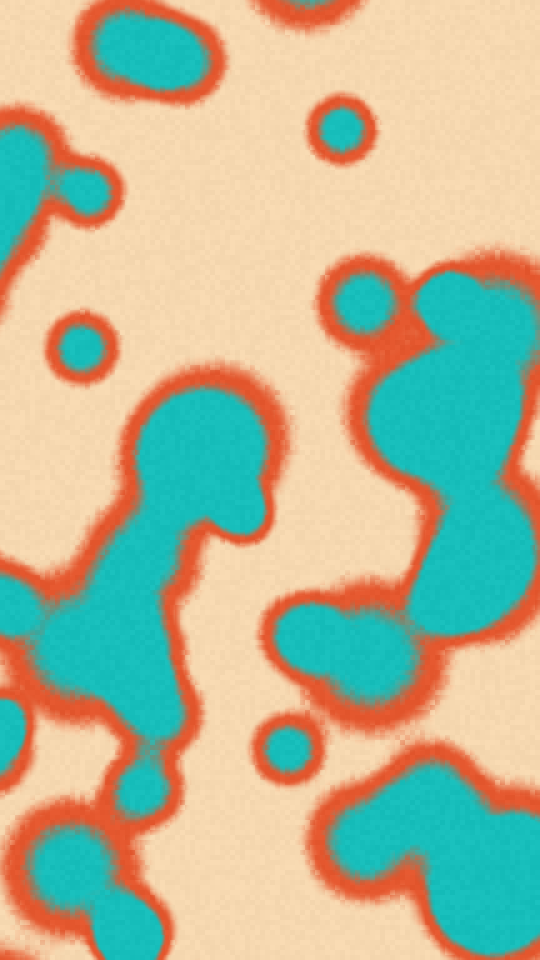
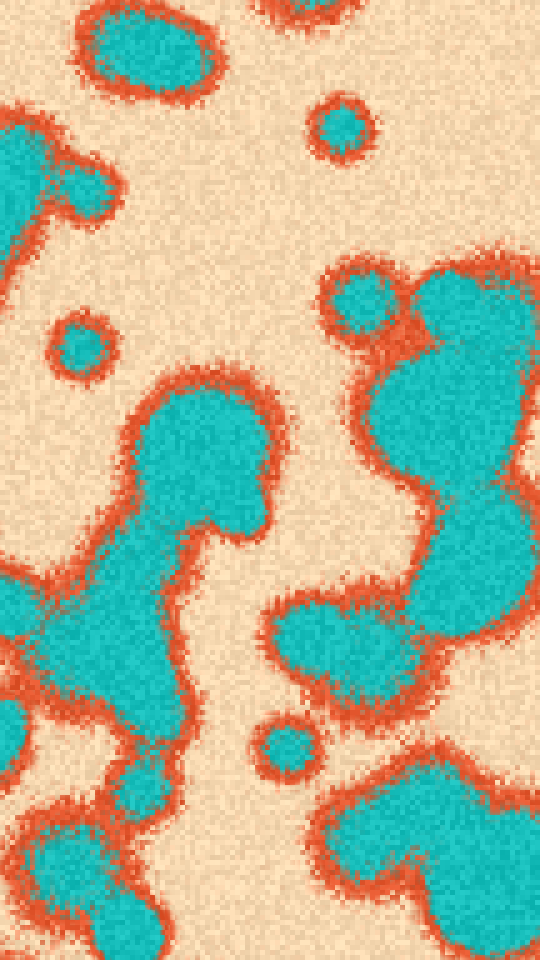
fix: keep the own grain of mist, sear and culture at site defaults
taste-triage.md now treats a Tool's own grain slider as grain, not art,
so a Seed no longer deals it. mist keeps 0.4, sear 0.1 and culture
0.62. Goldens, Reference exports and docs Stills follow.

diff --git a/tests/sear.rs b/tests/sear.rs
@@ -18,15 +18,15 @@ fn derive_gives_golden_recipes() {
     let golden = [
         (
             1,
-            r##"{"tirage":0,"tool":"sear","tool_seed":9611518,"palette":["#03071e","#370617","#9d0208","#e85d04","#faa307","#ffe066"],"params":{"scale":0.26,"warp":0.76,"detail":1,"smear":0.36,"drag":0.85,"tear":0.15,"steps":12,"grain":0.41,"ditherTog":false,"dthKinds":"Bayer 8","dthSize":2,"dthLevels":3,"dthAmount":1.0,"grainTog":false,"grnBlends":"Add","grnAmount":0.55,"grnSize":1.0,"grnSpecks":0.5,"grnVignette":0.5}}"##,
+            r##"{"tirage":0,"tool":"sear","tool_seed":9611518,"palette":["#03071e","#370617","#9d0208","#e85d04","#faa307","#ffe066"],"params":{"scale":0.26,"warp":0.76,"detail":1,"smear":0.36,"drag":0.85,"tear":0.15,"steps":12,"grain":0.1,"ditherTog":false,"dthKinds":"Bayer 8","dthSize":2,"dthLevels":3,"dthAmount":1.0,"grainTog":false,"grnBlends":"Add","grnAmount":0.55,"grnSize":1.0,"grnSpecks":0.5,"grnVignette":0.5}}"##,
         ),
         (
             2,
-            r##"{"tirage":0,"tool":"sear","tool_seed":3724278653,"palette":["#03071e","#370617","#9d0208","#e85d04","#faa307","#ffe066"],"params":{"scale":0.83,"warp":0.14,"detail":1,"smear":0.59,"drag":0.71,"tear":0.58,"steps":23,"grain":0.48,"ditherTog":false,"dthKinds":"Bayer 8","dthSize":2,"dthLevels":3,"dthAmount":1.0,"grainTog":false,"grnBlends":"Add","grnAmount":0.55,"grnSize":1.0,"grnSpecks":0.5,"grnVignette":0.5}}"##,
+            r##"{"tirage":0,"tool":"sear","tool_seed":3724278653,"palette":["#03071e","#370617","#9d0208","#e85d04","#faa307","#ffe066"],"params":{"scale":0.83,"warp":0.14,"detail":1,"smear":0.59,"drag":0.71,"tear":0.58,"steps":23,"grain":0.1,"ditherTog":false,"dthKinds":"Bayer 8","dthSize":2,"dthLevels":3,"dthAmount":1.0,"grainTog":false,"grnBlends":"Add","grnAmount":0.55,"grnSize":1.0,"grnSpecks":0.5,"grnVignette":0.5}}"##,
         ),
         (
             u64::MAX,
-            r##"{"tirage":0,"tool":"sear","tool_seed":3565986084,"palette":["#03071e","#370617","#9d0208","#e85d04","#faa307","#ffe066"],"params":{"scale":0.41,"warp":0.43,"detail":3,"smear":0.82,"drag":0.89,"tear":0.19,"steps":6,"grain":0.57,"ditherTog":false,"dthKinds":"Bayer 8","dthSize":2,"dthLevels":3,"dthAmount":1.0,"grainTog":false,"grnBlends":"Add","grnAmount":0.55,"grnSize":1.0,"grnSpecks":0.5,"grnVignette":0.5}}"##,
+            r##"{"tirage":0,"tool":"sear","tool_seed":3565986084,"palette":["#03071e","#370617","#9d0208","#e85d04","#faa307","#ffe066"],"params":{"scale":0.41,"warp":0.43,"detail":3,"smear":0.82,"drag":0.89,"tear":0.19,"steps":6,"grain":0.1,"ditherTog":false,"dthKinds":"Bayer 8","dthSize":2,"dthLevels":3,"dthAmount":1.0,"grainTog":false,"grnBlends":"Add","grnAmount":0.55,"grnSize":1.0,"grnSpecks":0.5,"grnVignette":0.5}}"##,
         ),
     ];
     for (seed, json) in golden {
@@ -39,6 +39,7 @@ fn every_draw_is_inside_taste_bounds_and_on_the_slider_grid() {
     for seed in 0..2000 {
         let recipe = derive(seed, SEAR);
         let p = sear(&recipe);
+        assert_eq!(p.grain(), 0.1, "seed {seed}");
         assert!((1..=5).contains(&p.detail()), "seed {seed}");
         assert!((2..=24).contains(&p.steps()), "seed {seed}");
         for (value, max) in [
@@ -47,7 +48,6 @@ fn every_draw_is_inside_taste_bounds_and_on_the_slider_grid() {
             (p.smear(), 1.0),
             (p.drag(), 1.0),
             (p.tear(), 0.6),
-            (p.grain(), 0.7),
         ] {
             assert!((0.0..=max).contains(&value), "seed {seed}: {value}");
             assert_eq!(

diff --git a/tests/culture.rs b/tests/culture.rs
@@ -18,15 +18,15 @@ fn derive_gives_golden_recipes() {
     let golden = [
         (
             1,
-            r##"{"tirage":0,"tool":"culture","tool_seed":9611518,"palette":["#f6d8b0","#e4572e","#17bebb"],"params":{"count":48,"size":0.28,"fuse":0.3,"cover":0.32,"spread":1.87,"soft":0.34,"textures":"Fine","grain":0.55,"dot":1,"ditherTog":false,"dthKinds":"Bayer 8","dthSize":2,"dthLevels":3,"dthAmount":1.0,"grainTog":false,"grnBlends":"Add","grnAmount":0.55,"grnSize":1.0,"grnSpecks":0.5,"grnVignette":0.5}}"##,
+            r##"{"tirage":0,"tool":"culture","tool_seed":9611518,"palette":["#f6d8b0","#e4572e","#17bebb"],"params":{"count":48,"size":0.28,"fuse":0.3,"cover":0.32,"spread":1.87,"soft":0.34,"textures":"Fine","grain":0.62,"dot":1,"ditherTog":false,"dthKinds":"Bayer 8","dthSize":2,"dthLevels":3,"dthAmount":1.0,"grainTog":false,"grnBlends":"Add","grnAmount":0.55,"grnSize":1.0,"grnSpecks":0.5,"grnVignette":0.5}}"##,
         ),
         (
             2,
-            r##"{"tirage":0,"tool":"culture","tool_seed":3724278653,"palette":["#f6d8b0","#e4572e","#17bebb"],"params":{"count":42,"size":0.48,"fuse":0.47,"cover":0.4,"spread":1.37,"soft":0.84,"textures":"Fine","grain":0.82,"dot":8,"ditherTog":false,"dthKinds":"Bayer 8","dthSize":2,"dthLevels":3,"dthAmount":1.0,"grainTog":false,"grnBlends":"Add","grnAmount":0.55,"grnSize":1.0,"grnSpecks":0.5,"grnVignette":0.5}}"##,
+            r##"{"tirage":0,"tool":"culture","tool_seed":3724278653,"palette":["#f6d8b0","#e4572e","#17bebb"],"params":{"count":42,"size":0.48,"fuse":0.47,"cover":0.4,"spread":1.37,"soft":0.84,"textures":"Fine","grain":0.62,"dot":8,"ditherTog":false,"dthKinds":"Bayer 8","dthSize":2,"dthLevels":3,"dthAmount":1.0,"grainTog":false,"grnBlends":"Add","grnAmount":0.55,"grnSize":1.0,"grnSpecks":0.5,"grnVignette":0.5}}"##,
         ),
         (
             u64::MAX,
-            r##"{"tirage":0,"tool":"culture","tool_seed":3565986084,"palette":["#f6d8b0","#e4572e","#17bebb"],"params":{"count":41,"size":0.4,"fuse":0.07,"cover":0.78,"spread":1.55,"soft":0.84,"textures":"Stipple","grain":0.09,"dot":4,"ditherTog":false,"dthKinds":"Bayer 8","dthSize":2,"dthLevels":3,"dthAmount":1.0,"grainTog":false,"grnBlends":"Add","grnAmount":0.55,"grnSize":1.0,"grnSpecks":0.5,"grnVignette":0.5}}"##,
+            r##"{"tirage":0,"tool":"culture","tool_seed":3565986084,"palette":["#f6d8b0","#e4572e","#17bebb"],"params":{"count":41,"size":0.4,"fuse":0.07,"cover":0.78,"spread":1.55,"soft":0.84,"textures":"Stipple","grain":0.62,"dot":4,"ditherTog":false,"dthKinds":"Bayer 8","dthSize":2,"dthLevels":3,"dthAmount":1.0,"grainTog":false,"grnBlends":"Add","grnAmount":0.55,"grnSize":1.0,"grnSpecks":0.5,"grnVignette":0.5}}"##,
         ),
     ];
     for (seed, json) in golden {
@@ -40,6 +40,7 @@ fn every_draw_is_inside_taste_bounds_and_on_the_slider_grid() {
     for seed in 0..2000 {
         let recipe = derive(seed, CULTURE);
         let p = culture(&recipe);
+        assert_eq!(p.grain(), 0.62, "seed {seed}");
         assert!((15..=70).contains(&p.count()), "seed {seed}");
         assert!((1..=10).contains(&p.dot()), "seed {seed}");
         for (value, min, max) in [
@@ -48,7 +49,6 @@ fn every_draw_is_inside_taste_bounds_and_on_the_slider_grid() {
             (p.cover(), 0.0, 1.0),
             (p.spread(), 0.05, 2.0),
             (p.soft(), 0.02, 1.0),
-            (p.grain(), 0.0, 1.0),
         ] {
             assert!((min..=max).contains(&value), "seed {seed}: {value}");
             assert_eq!(

diff --git a/tests/mist.rs b/tests/mist.rs
@@ -18,15 +18,15 @@ fn derive_gives_golden_recipes() {
     let golden = [
         (
             1,
-            r##"{"tirage":0,"tool":"mist","tool_seed":9611518,"palette":["#dcff3a","#1e1b3a","#3b2a6e","#5a2e7a"],"params":{"streaks":1.45,"cover":0.45,"soft":0.38,"blot":0.28,"grain":0.86,"ditherTog":false,"dthKinds":"Bayer 8","dthSize":2,"dthLevels":3,"dthAmount":1.0,"grainTog":false,"grnBlends":"Add","grnAmount":0.55,"grnSize":1.0,"grnSpecks":0.5,"grnVignette":0.5}}"##,
+            r##"{"tirage":0,"tool":"mist","tool_seed":9611518,"palette":["#dcff3a","#1e1b3a","#3b2a6e","#5a2e7a"],"params":{"streaks":1.45,"cover":0.45,"soft":0.38,"blot":0.28,"grain":0.4,"ditherTog":false,"dthKinds":"Bayer 8","dthSize":2,"dthLevels":3,"dthAmount":1.0,"grainTog":false,"grnBlends":"Add","grnAmount":0.55,"grnSize":1.0,"grnSpecks":0.5,"grnVignette":0.5}}"##,
         ),
         (
             2,
-            r##"{"tirage":0,"tool":"mist","tool_seed":3724278653,"palette":["#dcff3a","#1e1b3a","#3b2a6e","#5a2e7a"],"params":{"streaks":1.2,"cover":0.5,"soft":0.85,"blot":0.69,"grain":0.89,"ditherTog":false,"dthKinds":"Bayer 8","dthSize":2,"dthLevels":3,"dthAmount":1.0,"grainTog":false,"grnBlends":"Add","grnAmount":0.55,"grnSize":1.0,"grnSpecks":0.5,"grnVignette":0.5}}"##,
+            r##"{"tirage":0,"tool":"mist","tool_seed":3724278653,"palette":["#dcff3a","#1e1b3a","#3b2a6e","#5a2e7a"],"params":{"streaks":1.2,"cover":0.5,"soft":0.85,"blot":0.69,"grain":0.4,"ditherTog":false,"dthKinds":"Bayer 8","dthSize":2,"dthLevels":3,"dthAmount":1.0,"grainTog":false,"grnBlends":"Add","grnAmount":0.55,"grnSize":1.0,"grnSpecks":0.5,"grnVignette":0.5}}"##,
         ),
         (
             u64::MAX,
-            r##"{"tirage":0,"tool":"mist","tool_seed":3565986084,"palette":["#dcff3a","#1e1b3a","#3b2a6e","#5a2e7a"],"params":{"streaks":0.55,"cover":0.58,"soft":0.81,"blot":0.73,"grain":0.08,"ditherTog":false,"dthKinds":"Bayer 8","dthSize":2,"dthLevels":3,"dthAmount":1.0,"grainTog":false,"grnBlends":"Add","grnAmount":0.55,"grnSize":1.0,"grnSpecks":0.5,"grnVignette":0.5}}"##,
+            r##"{"tirage":0,"tool":"mist","tool_seed":3565986084,"palette":["#dcff3a","#1e1b3a","#3b2a6e","#5a2e7a"],"params":{"streaks":0.55,"cover":0.58,"soft":0.81,"blot":0.73,"grain":0.4,"ditherTog":false,"dthKinds":"Bayer 8","dthSize":2,"dthLevels":3,"dthAmount":1.0,"grainTog":false,"grnBlends":"Add","grnAmount":0.55,"grnSize":1.0,"grnSpecks":0.5,"grnVignette":0.5}}"##,
         ),
     ];
     for (seed, json) in golden {
@@ -39,12 +39,12 @@ fn every_draw_is_inside_taste_bounds_and_on_the_slider_grid() {
     for seed in 0..2000 {
         let recipe = derive(seed, MIST);
         let p = mist(&recipe);
+        assert_eq!(p.grain(), 0.4, "seed {seed}");
         for (value, min, max, unit) in [
             (p.streaks(), 0.4, 2.0, 20.0),
             (p.cover(), 0.3, 0.6, 100.0),
             (p.soft(), 0.1, 1.0, 100.0),
             (p.blot(), 0.2, 1.0, 100.0),
-            (p.grain(), 0.0, 1.0, 100.0),
         ] {
             assert!((min..=max).contains(&value), "seed {seed}: {value}");
             assert_eq!(value, (value * unit).round() / unit, "seed {seed}: {value}");

diff --git a/src/culture.rs b/src/culture.rs
@@ -33,7 +33,7 @@ const SOFT: Param = Param::new(SLUG, "soft", 2, 100, 100);
 const GRAIN: Param = Param::new(SLUG, "grain", 0, 100, 100);
 const DOT: Param = Param::new(SLUG, "dot", 1, 10, 1);
 
-pub(crate) const PARAMS: &[Param] = &[COUNT, SIZE, FUSE, COVER, SPREAD, SOFT, GRAIN, DOT];
+pub(crate) const PARAMS: &[Param] = &[COUNT, SIZE, FUSE, COVER, SPREAD, SOFT, DOT];
 
 #[derive(Debug, Clone, Copy, PartialEq, Eq, Serialize, Deserialize)]
 pub enum CultureTexture {
@@ -253,7 +253,7 @@ pub(crate) fn parameters() -> Vec<Parameter> {
             "textures",
             &["Fine", "Stipple"],
         )))
-        .chain(after.iter().map(Param::parameter))
+        .chain([&GRAIN].into_iter().chain(after).map(Param::parameter))
         .chain(chassis::parameters())
         .collect()
 }
@@ -272,7 +272,7 @@ pub(crate) fn deal(draw: impl Fn(&str) -> u64, taste: &Taste) -> CultureParams {
         spread: pick(&SPREAD),
         soft: pick(&SOFT),
         texture: TEXTURES[(draw("textures") % TEXTURES.len() as u64) as usize],
-        grain: pick(&GRAIN),
+        grain: 0.62,
         dot: pick(&DOT) as u32,
         dither: Dither::default(),
         chassis_grain: Grain::default(),

diff --git a/src/sear.rs b/src/sear.rs
@@ -25,12 +25,9 @@ const TEAR: Param = Param {
     ..Param::new(SLUG, "tear", 0, 100, 100)
 };
 const STEPS: Param = Param::new(SLUG, "steps", 2, 24, 1);
-const GRAIN: Param = Param {
-    taste: (0, 70),
-    ..Param::new(SLUG, "grain", 0, 100, 100)
-};
+const GRAIN: Param = Param::new(SLUG, "grain", 0, 100, 100);
 
-pub(crate) const PARAMS: &[Param] = &[SCALE, WARP, DETAIL, SMEAR, DRAG, TEAR, STEPS, GRAIN];
+pub(crate) const PARAMS: &[Param] = &[SCALE, WARP, DETAIL, SMEAR, DRAG, TEAR, STEPS];
 
 #[derive(Debug, Clone, PartialEq, Serialize)]
 pub struct SearParams {
@@ -222,6 +219,7 @@ pub(crate) fn from_json(params: serde_json::Value) -> Result<SearParams, Error> 
 pub(crate) fn parameters() -> Vec<Parameter> {
     PARAMS
         .iter()
+        .chain([&GRAIN])
         .map(Param::parameter)
         .chain(chassis::parameters())
         .collect()
@@ -241,7 +239,7 @@ pub(crate) fn deal(draw: impl Fn(&str) -> u64, taste: &Taste) -> SearParams {
         drag: pick(&DRAG),
         tear: pick(&TEAR),
         steps: pick(&STEPS) as u32,
-        grain: pick(&GRAIN),
+        grain: 0.1,
         dither: Dither::default(),
         chassis_grain: Grain::default(),
     }

diff --git a/src/mist.rs b/src/mist.rs
@@ -28,7 +28,7 @@ const SOFT: Param = Param::new(SLUG, "soft", 10, 100, 100);
 const BLOT: Param = Param::new(SLUG, "blot", 20, 100, 100);
 const GRAIN: Param = Param::new(SLUG, "grain", 0, 100, 100);
 
-pub(crate) const PARAMS: &[Param] = &[STREAKS, COVER, SOFT, BLOT, GRAIN];
+pub(crate) const PARAMS: &[Param] = &[STREAKS, COVER, SOFT, BLOT];
 
 #[derive(Debug, Clone, PartialEq, Serialize)]
 pub struct MistParams {
@@ -179,6 +179,7 @@ pub(crate) fn from_json(params: serde_json::Value) -> Result<MistParams, Error> 
 pub(crate) fn parameters() -> Vec<Parameter> {
     PARAMS
         .iter()
+        .chain([&GRAIN])
         .map(Param::parameter)
         .chain(chassis::parameters())
         .collect()
@@ -195,7 +196,7 @@ pub(crate) fn deal(draw: impl Fn(&str) -> u64, taste: &Taste) -> MistParams {
         cover: pick(&COVER),
         soft: pick(&SOFT),
         blot: pick(&BLOT),
-        grain: pick(&GRAIN),
+        grain: 0.4,
         dither: Dither::default(),
         chassis_grain: Grain::default(),
     }

diff --git a/docs/src/content/docs/tools/culture.md b/docs/src/content/docs/tools/culture.md
@@ -45,4 +45,4 @@ culture  1 frame
   grnVignette 0..=1     step 0.05
 ```
 
-A Seed draws every Parameter above `ditherTog`. Each range comes from its [Taste bounds](/concepts/taste-bounds/), which sit within the range listed: `count` stays within 15..=70, `size` within 0.15..=0.6 and `fuse` within 0..=0.8. `grain` is the Tool's own grain. Dither and the grain post-pass stay off. The first ink is the plate, and every later ink is a ring further in.
+A Seed draws every Parameter above `ditherTog` except `grain`. Each range comes from its [Taste bounds](/concepts/taste-bounds/), which sit within the range listed: `count` stays within 15..=70, `size` within 0.15..=0.6 and `fuse` within 0..=0.8. `grain`, the Tool's own grain, stays at 0.62. Dither and the grain post-pass stay off. The first ink is the plate, and every later ink is a ring further in.

diff --git a/docs/src/content/docs/tools/sear.md b/docs/src/content/docs/tools/sear.md
@@ -44,4 +44,4 @@ sear  1 frame
   grnVignette 0..=1     step 0.05
 ```
 
-A Seed draws every Parameter above `ditherTog`. Each range comes from its [Taste bounds](/concepts/taste-bounds/), which sit within the range listed: `tear` stays within 0..=0.6 and `grain`, the Tool's own grain, within 0..=0.7. Dither and the grain post-pass stay off. The Palette is a ramp read coolest first, so the first ink is the lowest heat and the last the peaks.
+A Seed draws every Parameter above `grain`. Each range comes from its [Taste bounds](/concepts/taste-bounds/), which sit within the range listed: `tear` stays within 0..=0.6. `grain`, the Tool's own grain, stays at 0.1. Dither and the grain post-pass stay off. The Palette is a ramp read coolest first, so the first ink is the lowest heat and the last the peaks.

diff --git a/docs/src/content/docs/tools/mist.md b/docs/src/content/docs/tools/mist.md
@@ -41,4 +41,4 @@ mist  1 frame
   grnVignette 0..=1     step 0.05
 ```
 
-A Seed draws `streaks`, `cover`, `soft`, `blot` and `grain`, the Tool's own per-pixel noise. Each range comes from its [Taste bounds](/concepts/taste-bounds/), which sit within the range listed. Dither and the grain post-pass stay off. mist takes at most 4 inks: the first is the neon, the other three the ground.
+A Seed draws `streaks`, `cover`, `soft` and `blot`. Each range comes from its [Taste bounds](/concepts/taste-bounds/), which sit within the range listed. `grain`, the Tool's own per-pixel noise, stays at 0.4. Dither and the grain post-pass stay off. mist takes at most 4 inks: the first is the neon, the other three the ground.
